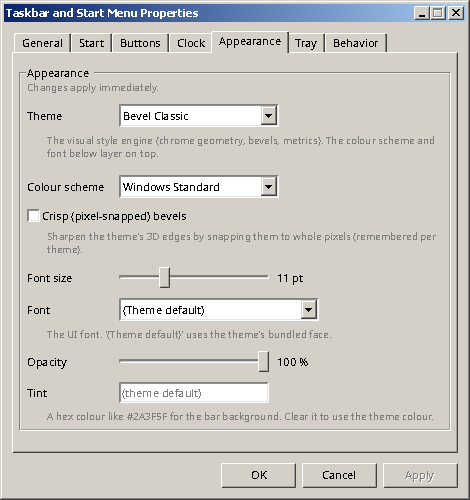
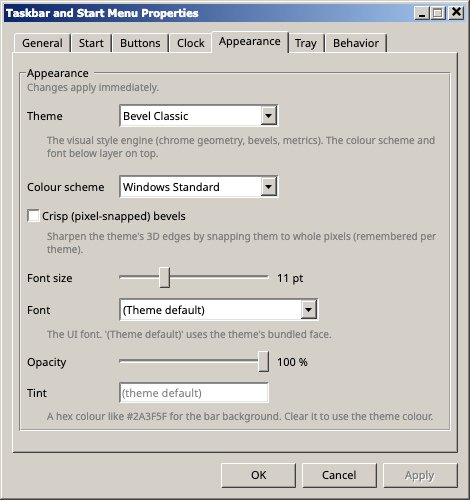
fix(site): re-harvest the two shots that shipped aliased text
Both were bilevel — hard staircase glyph edges, no antialiasing ramp — while
every sibling shot was smooth. infopane-win9x.png had THREE unique colours in
the whole 200x380 image.

Not a theme bug. FontUtils maps FontAliasingKey (False everywhere) to
SubpixelAntialias, and re-running the producing tests proves the code is fine:
the other three info panes come back byte-identical to what is committed, and
win9x comes back with 259 colours instead of 3. Both shots were simply stale,
harvested from an older state and never refreshed.

theme-win2000.png was the worse case: no test produced it at all. It was a
one-off hand-run of OnboardingWindow at 470x500 on the Appearance tab, which is
exactly why it could rot unnoticed while its siblings were re-harvested.
Render_appearance_tab_to_png now produces it, selecting the tab by HEADER so an
inserted tab can't silently re-point a magic index at the wrong page.

The new test asserts on the PIXELS, not on RenderOptions: FontUtils sets the
mode on a template element deep inside the window, so the root reads
Unspecified and asserting there proves nothing. RampedEdgeFraction measures
what the shot actually ships — the share of high-contrast edges carrying an
intermediate pixel. Aliased text scores ~0.12, these now score 0.44 and 0.46.

Audited all ten shots; the other eight are clean. Taskbar 435 and FileManager
186 tests pass.

diff --git a/tests/Bevel.Taskbar.Tests/RenderOnboardingTest.cs b/tests/Bevel.Taskbar.Tests/RenderOnboardingTest.cs
@@ -1,7 +1,9 @@
 using System;
 using System.IO;
 using System.Linq;
+using Avalonia;
 using Avalonia.Controls;
+using Avalonia.Media;
 using Avalonia.Headless;
 using Avalonia.Headless.XUnit;
 using Avalonia.Threading;
@@ -52,6 +54,49 @@ public class RenderOnboardingTest
         finally { try { Directory.Delete(dir, true); } catch { /* best-effort cleanup */ } }
     }
 
+    /// <summary>
+    /// The Appearance tab at the exact size the landing page ships (site/shots/theme-win2000.png).
+    /// That shot used to be a one-off hand-run with no test behind it, so it silently went stale: it was
+    /// harvested while text still rendered ALIASED and stayed that way for months while every sibling shot
+    /// was re-harvested antialiased. A shot the suite can reproduce is a shot that cannot drift.
+    /// </summary>
+    [AvaloniaFact]
+    public void Render_appearance_tab_to_png()
+    {
+        var dir = Path.Combine(Path.GetTempPath(), "bevel-onb-appearance-" + Guid.NewGuid().ToString("N"));
+        try
+        {
+            var settings = new SettingsService(dir);
+            var win = new OnboardingWindow(settings) { Width = 470, Height = 500 };
+            win.Show();
+            Dispatcher.UIThread.RunJobs();
+
+            // Select by HEADER, not by index: a new tab inserted ahead of it would silently re-point a
+            // magic number at the wrong page, and the shot would go wrong without anything failing.
+            var tabs = win.GetVisualDescendants().OfType<TabControl>().First();
+            var appearance = tabs.Items.OfType<TabItem>().First(t => (t.Header as string) == "Appearance");
+            tabs.SelectedItem = appearance;
+            Dispatcher.UIThread.RunJobs();
+
+            Assert.NotNull(win.GetVisualDescendants().OfType<CheckBox>()
+                .FirstOrDefault(c => c.Name == "CrispBevelsCheck"));   // we are really on Appearance
+
+            var frame = win.CaptureRenderedFrame();
+            Assert.NotNull(frame);
+
+            // never-disable-AA, asserted on the PIXELS rather than on a RenderOptions property: the mode is
+            // set by FontUtils on a template element deep in the window, so the root reads Unspecified and
+            // an assert there proves nothing. What the shot needs is that glyph edges carry a ramp.
+            Assert.True(RampedEdgeFraction(frame!) > 0.25,
+                "text rendered without antialiasing — the harvested shot would show staircase glyphs");
+
+            var outPath = Environment.GetEnvironmentVariable("BEVEL_ONB_APPEARANCE_OUT")
+                          ?? Path.Combine(Path.GetTempPath(), "bevel-onboarding-appearance.png");
+            frame!.Save(outPath);
+        }
+        finally { try { Directory.Delete(dir, true); } catch { /* best-effort cleanup */ } }
+    }
+
     [AvaloniaFact]
     public void Render_properties_luna_to_png()
     {
@@ -75,5 +120,38 @@ public class RenderOnboardingTest
             Bevel.UI.ThemeService.Apply("win2000");
             try { Directory.Delete(dir, true); } catch { /* best-effort cleanup */ }
         }
+    }
+
+    /// <summary>
+    /// Fraction of high-contrast horizontal edges that carry an intermediate pixel. Aliased (bilevel) text
+    /// steps straight from ink to paper and scores near zero; antialiased text scores well above a third.
+    /// Written against the frame because that is the artifact the site ships.
+    /// </summary>
+    private static double RampedEdgeFraction(Avalonia.Media.Imaging.WriteableBitmap frame)
+    {
+        using var fb = frame.Lock();
+        int w = fb.Size.Width, h = fb.Size.Height, hard = 0, ramped = 0;
+
+        int Lum(int x, int y)
+        {
+            var p = fb.Address + y * fb.RowBytes + x * 4;
+            int b0 = System.Runtime.InteropServices.Marshal.ReadByte(p, 0);
+            int b1 = System.Runtime.InteropServices.Marshal.ReadByte(p, 1);
+            int b2 = System.Runtime.InteropServices.Marshal.ReadByte(p, 2);
+            var (r, g, b) = fb.Format == Avalonia.Platform.PixelFormat.Rgba8888 ? (b0, b1, b2) : (b2, b1, b0);
+            return (r * 299 + g * 587 + b * 114) / 1000;
+        }
+
+        for (var y = 0; y < h; y++)
+            for (var x = 1; x < w - 2; x++)
+            {
+                int a = Lum(x, y), b = Lum(x + 1, y);
+                if (Math.Abs(a - b) <= 70) continue;
+                int lo = Math.Min(a, b), hi = Math.Max(a, b), l = Lum(x - 1, y), r = Lum(x + 2, y);
+                if ((l > lo + 15 && l < hi - 15) || (r > lo + 15 && r < hi - 15)) ramped++;
+                else hard++;
+            }
+
+        return hard + ramped == 0 ? 1.0 : (double)ramped / (hard + ramped);
     }
 }
